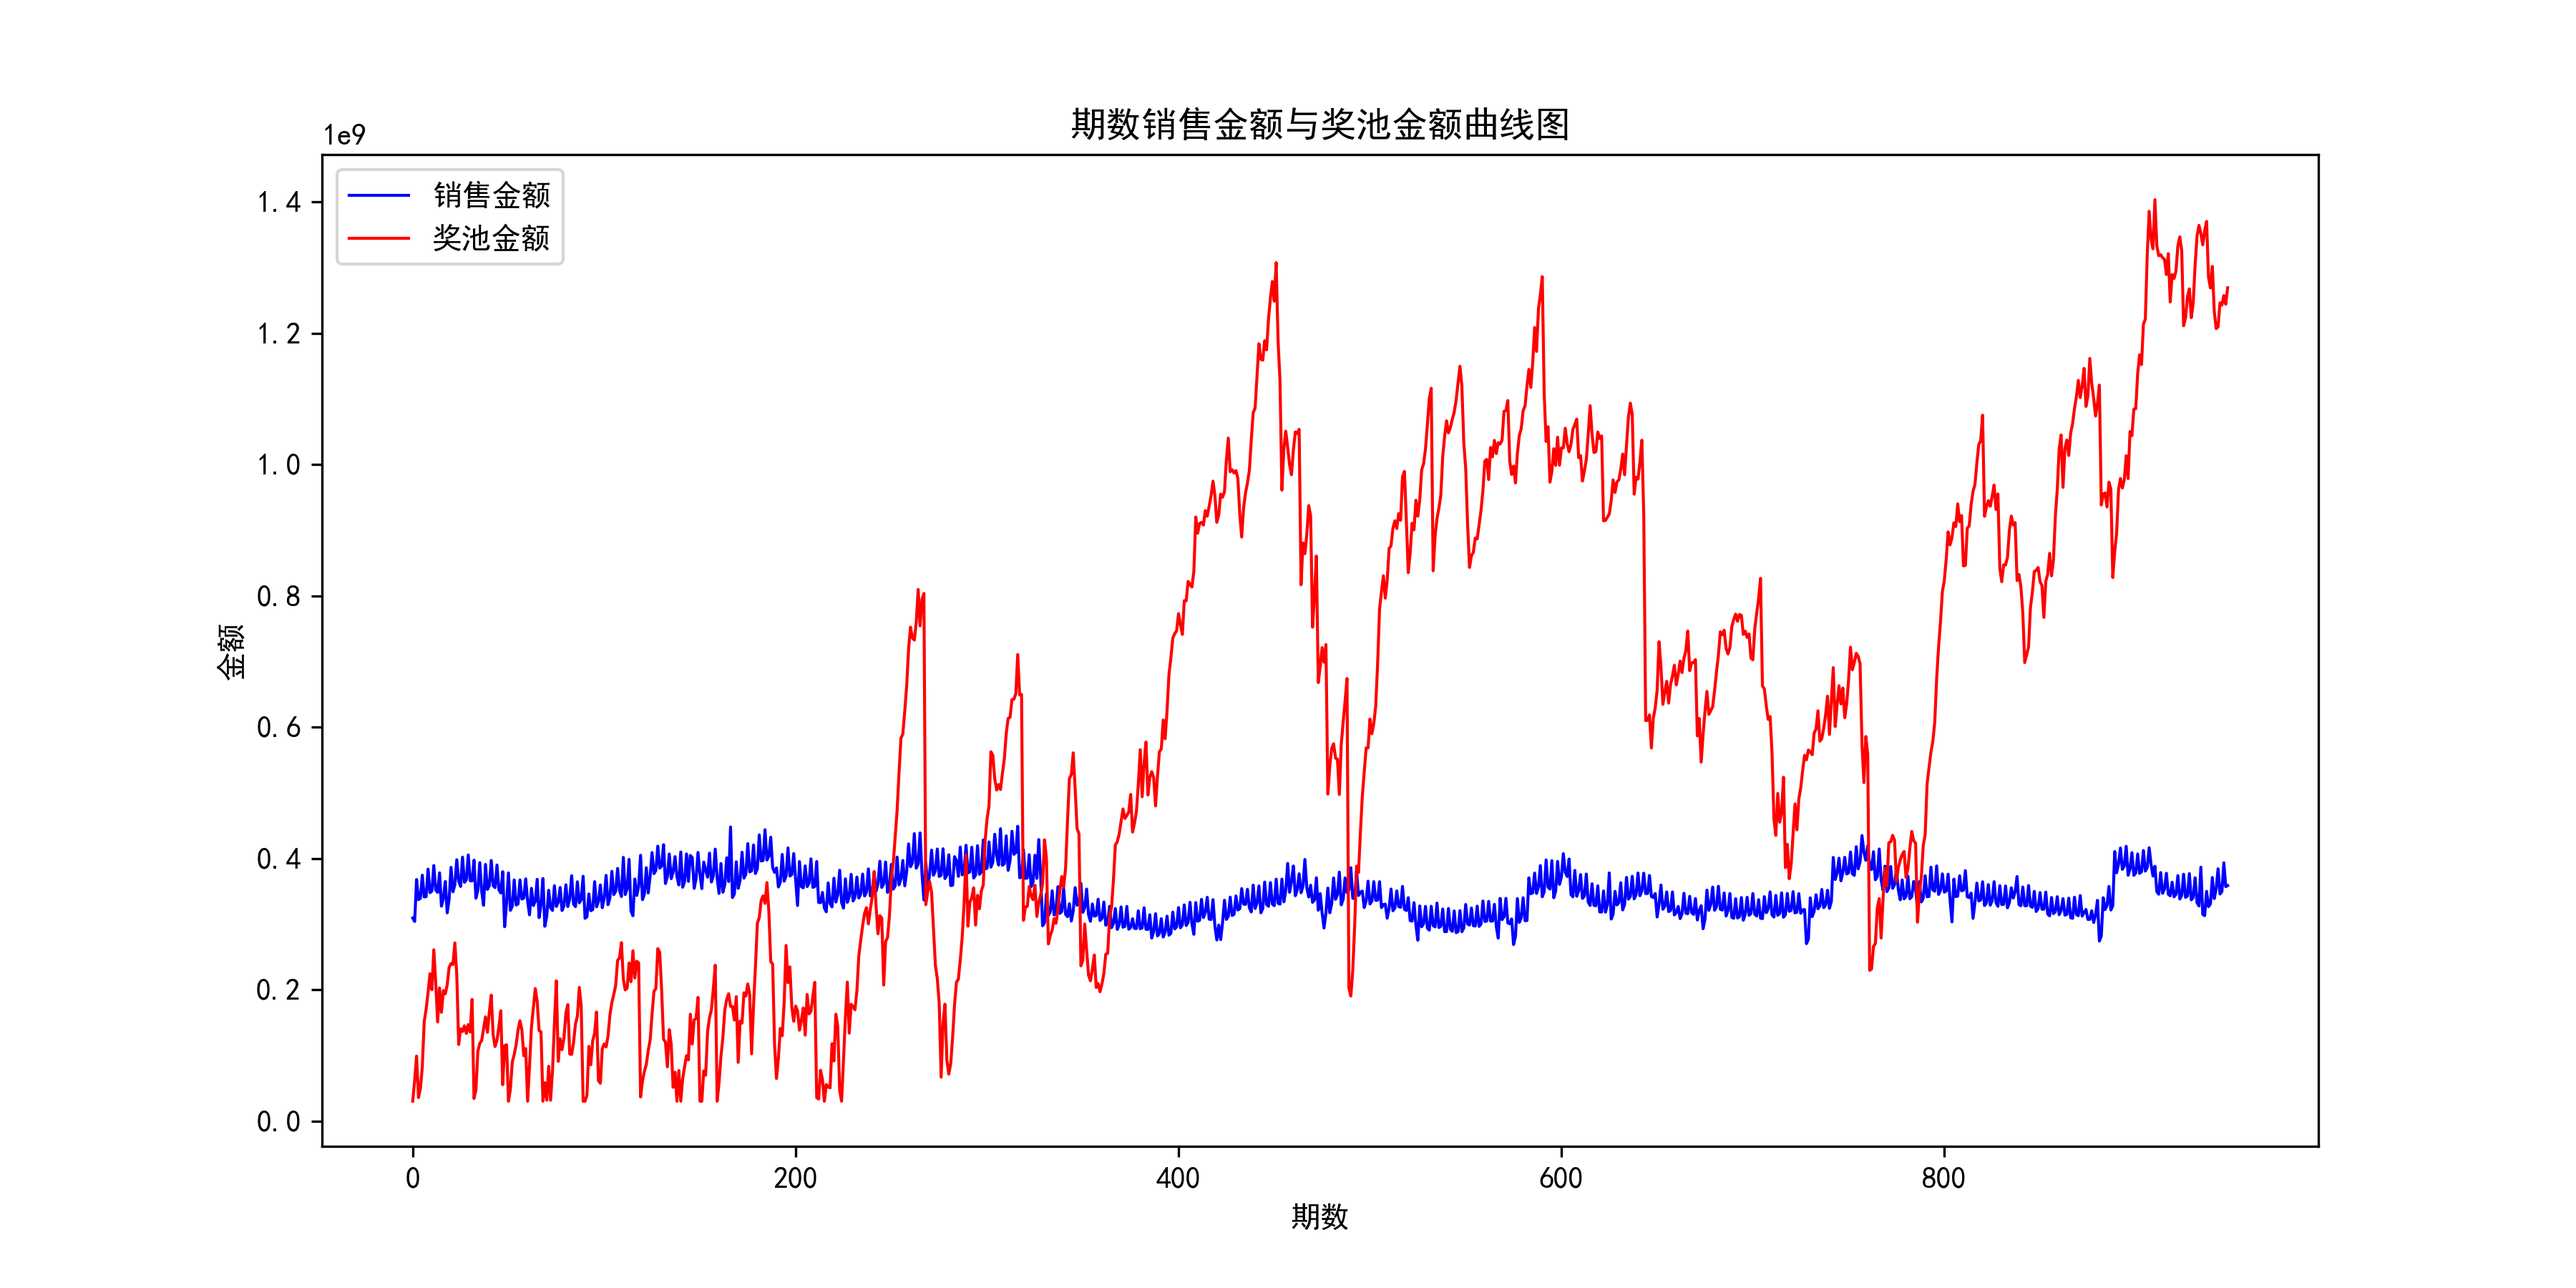
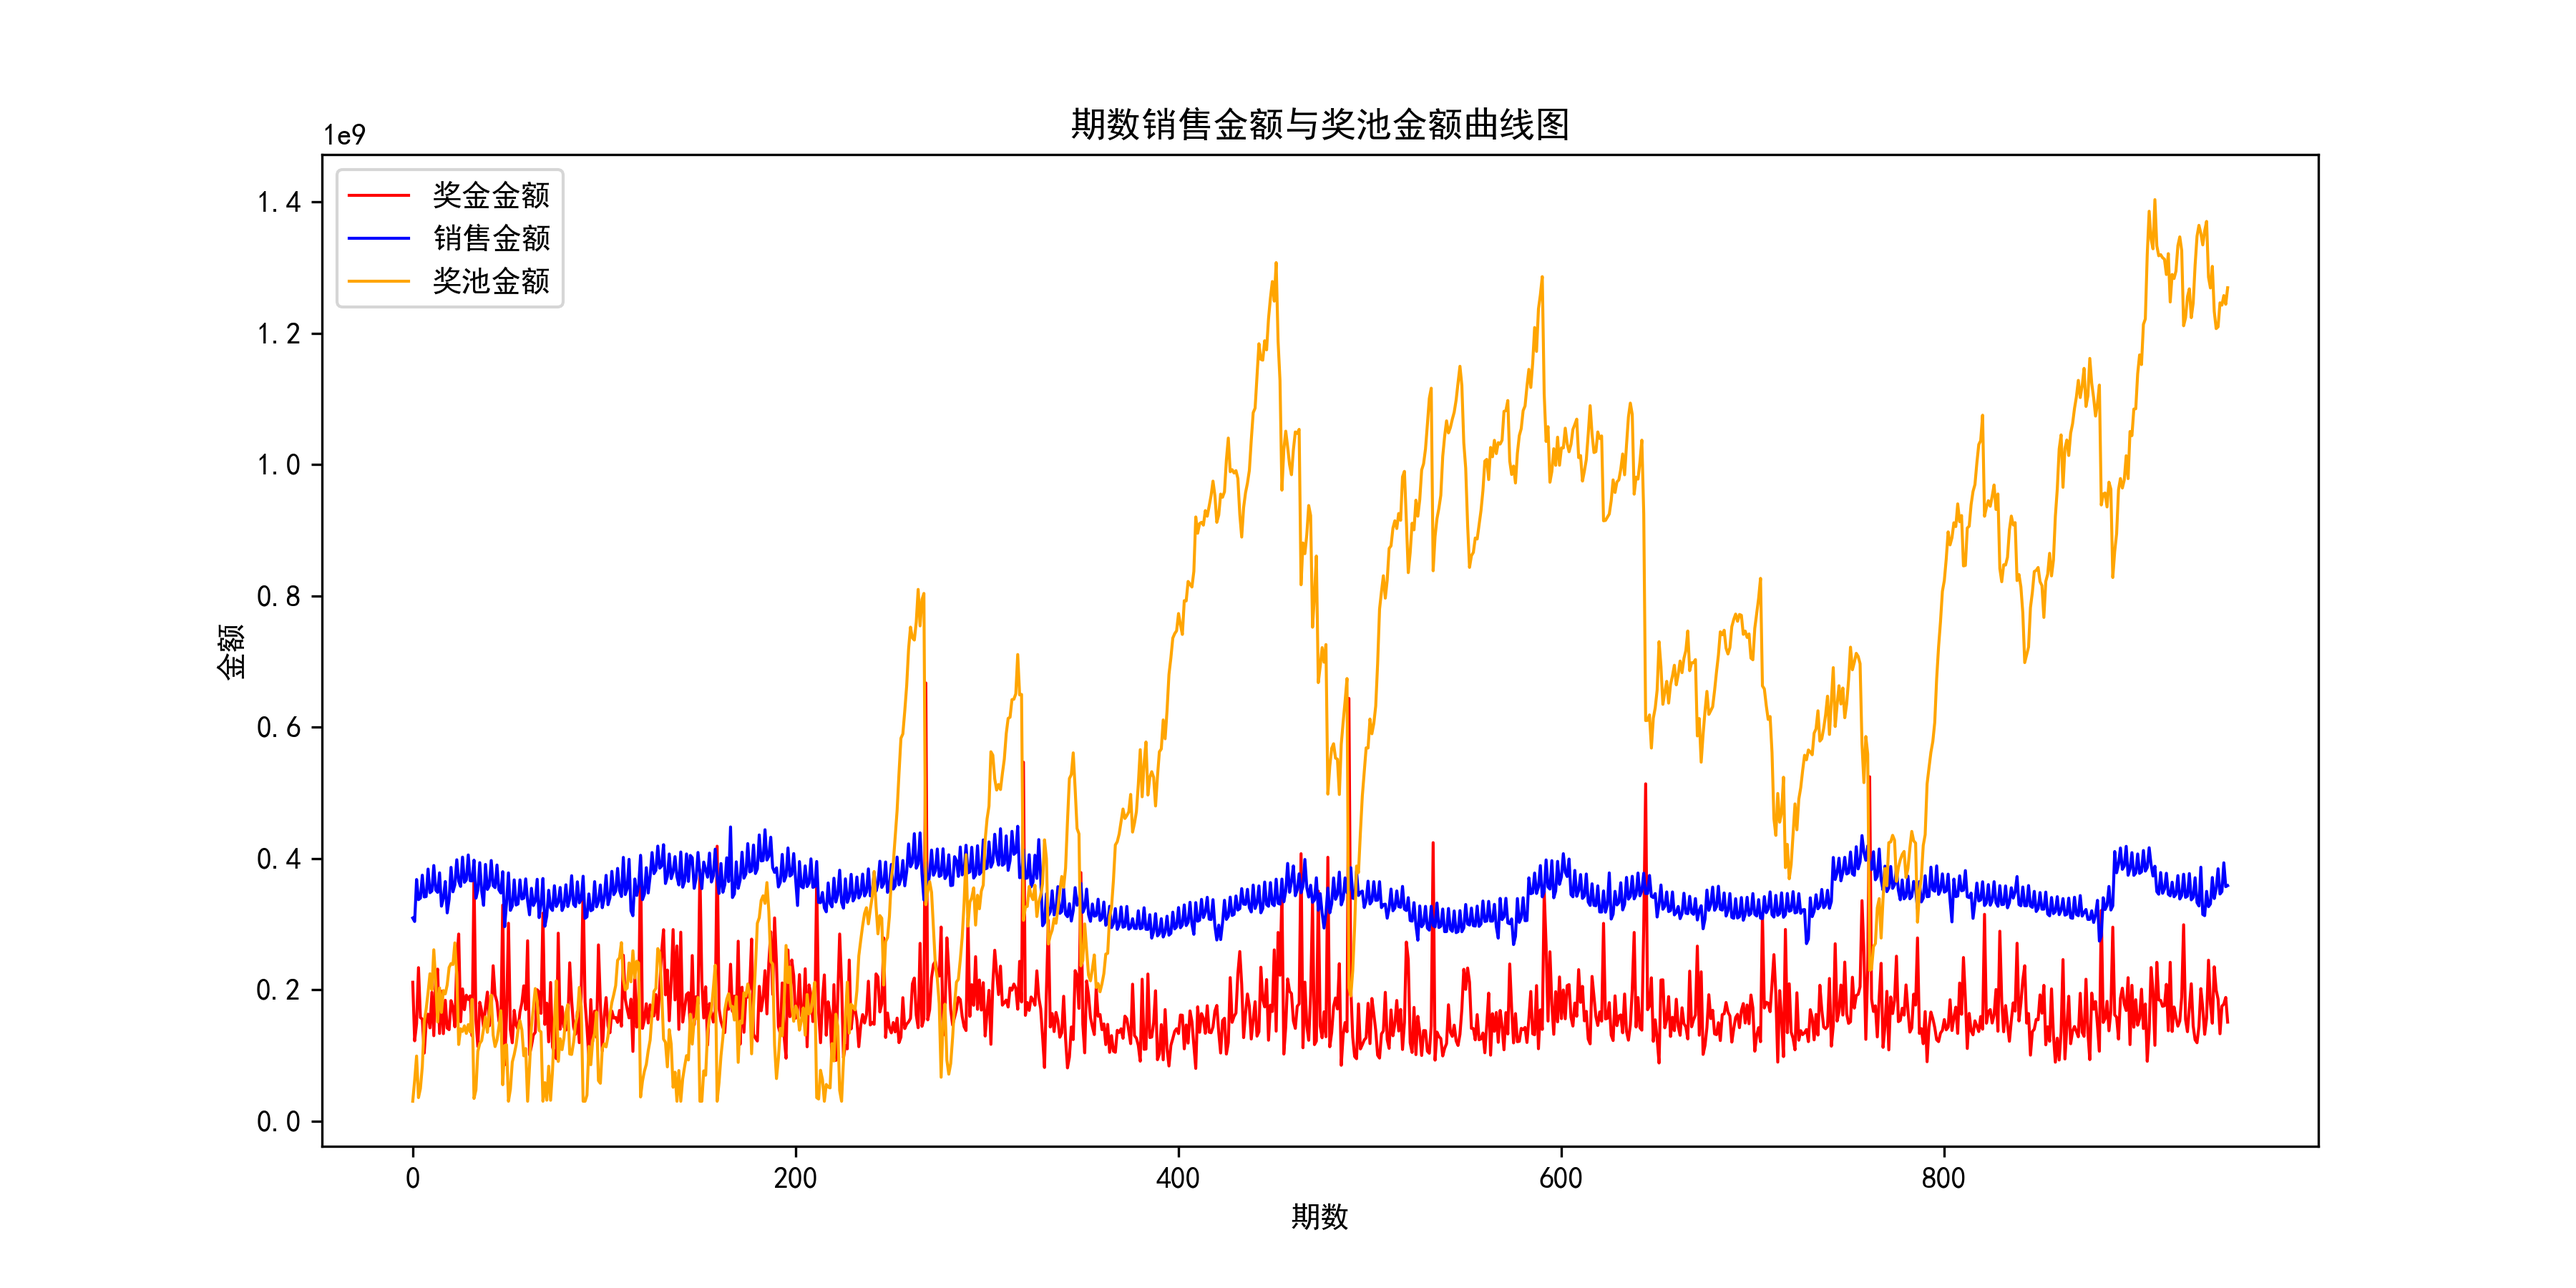
最新数据更新

diff --git a/DataShow/DataVisual.py b/DataShow/DataVisual.py
@@ -207,36 +207,47 @@ def area_statistics_visual():
 def sales_money_visual():
     sales_money = sql.get_single_value("sales")
     pool_sales_money = sql.get_single_value("poolmoney")
-    bonus = sql.get_single_value("prizegrades")
 
-    prize_money = []
-    for item in bonus:
-        prize_array = []
-        prize_dict = {}
-        i_flag = 0
-        for prize in item.strip('[]').split(','):
-            prize_summary = prize.strip(' {} ').split(': ')
-            prize_dict[prize_summary[0].strip('\'')] = prize_summary[1].strip('\'')
-            i_flag = i_flag + 1
-            if i_flag % 3 == 0:
-                prize_array.append(prize_dict)
-                prize_dict = {}
-        prize_money.append(prize_array)
-    print(prize_money)
+    prize_money, prize_summary = DataHandle.handle_prize()
 
-    # print(sales_money)
-    # print(pool_sales_money)
     pyplot.figure(figsize=(12, 6))
     pyplot.xlabel("期数")
     pyplot.ylabel("金额")
     pyplot.title("期数销售金额与奖池金额曲线图")
     mpl.rcParams['font.sans-serif'] = ['SimHei']
+    pyplot.plot(range(0, prize_money.__len__()), prize_money, color="red",
+                linewidth=1, linestyle="-", label="奖金金额")
     pyplot.plot(range(0, sales_money.__len__()), sales_money, color="blue",
                 linewidth=1, linestyle="-", label="销售金额")
-    pyplot.plot(range(0, pool_sales_money.__len__()), pool_sales_money, color="red",
+    pyplot.plot(range(0, pool_sales_money.__len__()), pool_sales_money, color="orange",
                 linewidth=1, linestyle="-", label="奖池金额")
     legend(loc='upper left')
     pyplot.savefig(r"{0}\..\image\SalesMoney.png".format(os.getcwd()), dpi=300)
+    # pyplot.show()
+
+
+def difference_prize_visual():
+    prize_money, prize_summary = DataHandle.handle_prize()
+    sales_money = sql.get_single_value("sales")
+    pool_sales_money = sql.get_single_value("poolmoney")
+
+    deference_prize = []
+    deference_mount = 0
+    for p, s in zip(prize_money, sales_money):
+        deference_mount = s - p
+        deference_prize.append(deference_mount)
+
+    pyplot.figure(figsize=(12, 6))
+    pyplot.xlabel("期数")
+    pyplot.ylabel("金额")
+    pyplot.title("销售与奖金差值累计金额与奖池金额曲线图")
+    mpl.rcParams['font.sans-serif'] = ['SimHei']
+    pyplot.plot(range(0, deference_prize.__len__()), deference_prize, color="blue",
+                linewidth=1, linestyle="-", label="销售与奖金差值累计金额")
+    pyplot.plot(range(0, pool_sales_money.__len__()), pool_sales_money, color="red",
+                linewidth=1, linestyle="-", label="奖池金额")
+    legend(loc='upper left')
+    pyplot.savefig(r"{0}\..\image\DifferenceMoney.png".format(os.getcwd()), dpi=300)
     # pyplot.show()
 
 
@@ -260,8 +271,12 @@ def blue_visual():
 
 if __name__ == "__main__":
     sales_money_visual()
+    difference_prize_visual()
     blue_statistics_visual()
     red_statistics_visual()
     ball_sum_visual()
     area_statistics_visual()
     winners_of_lottery()
+
+
+    # print(20*5250000+271*71485+2102*3000+86580*200+1412922*10+9831878*5)

diff --git a/DataShow/DataHandle.py b/DataShow/DataHandle.py
@@ -90,25 +90,37 @@ def handle_prize():
     so = SqliteOperator()
     bonus = so.get_single_value("prizegrades")
 
+    prize_summary = []
     prize_money = []
     for item in bonus:
         prize_array = []
         prize_dict = {}
         i_flag = 0
         for prize in item.strip('[]').split(','):
-            prize_summary = prize.strip(' {} ').split(': ')
-            prize_dict[prize_summary[0].strip('\'')] = prize_summary[1].strip('\'')
+            prize_temp = prize.strip(' {} ').split(': ')
+            prize_dict[prize_temp[0].strip('\'')] = prize_temp[1].strip('\'')
             i_flag = i_flag + 1
             if i_flag % 3 == 0:
                 prize_array.append(prize_dict)
                 prize_dict = {}
-        prize_money.append(prize_array)
-    return prize_money
+        prize_summary.append(prize_array)
+
+        sum_bonus = 0
+        for bonus in prize_array:
+            if '奖' in bonus['typemoney']:
+                sum_bonus = sum_bonus + int(bonus['typenum']) * int(bonus['typemoney'].split('（')[0])
+            elif ''.__eq__(bonus['typemoney']):
+                None
+            else:
+                sum_bonus = sum_bonus + int(bonus['typenum']) * int(bonus['typemoney'])
+        prize_money.append(sum_bonus)
+    return prize_money, prize_summary
 
 
 if __name__ == "__main__":
     # print(red_statistics())
     # ball_sum_count()
-    area_statistics()
+    # area_statistics()
+    handle_prize
 
 

diff --git a/README.md b/README.md
@@ -8,6 +8,10 @@
 
 ![Sales Money](./image/SalesMoney.png) 
 
+### 销售金额与奖池金额曲线图
+
+![Difference Money](./image/DifferenceMoney.png)
+
 ### 各地区历次中奖统计
 
 ![Area Winning Count](./image/AreaWinningCount.png)  
